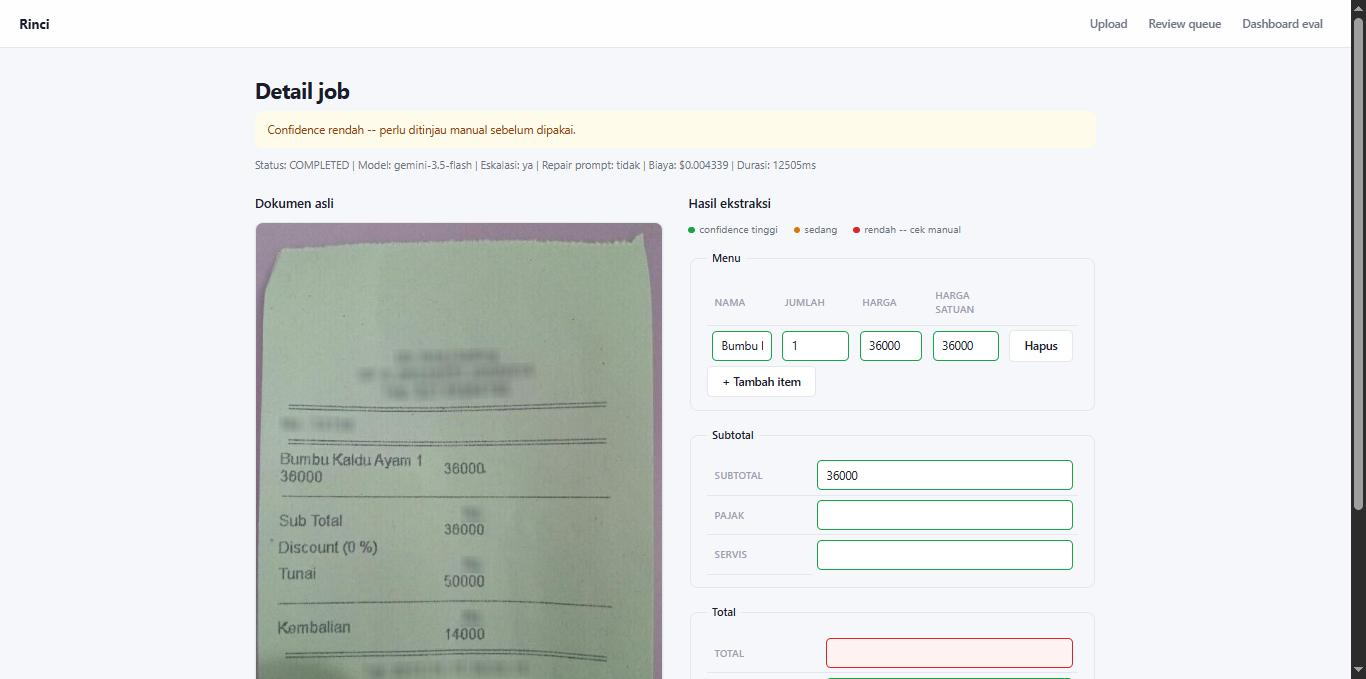
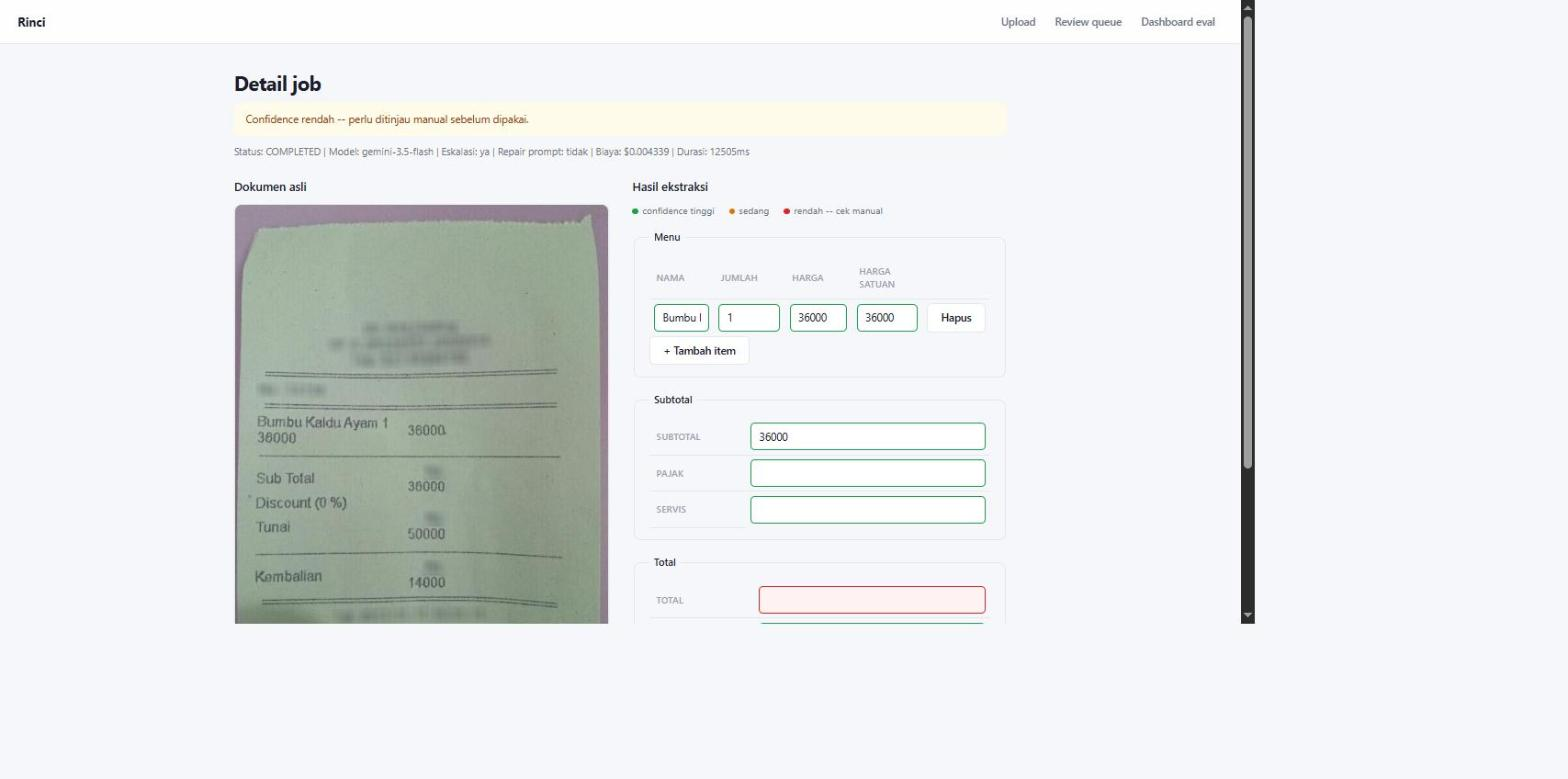
Readme Final

diff --git a/README.md b/README.md
@@ -10,6 +10,47 @@ tidak yakin.
 Nama **Rinci** dari kata "merinci" — memecah sesuatu jadi item-item
 detail.
 
+> Tidak ada demo publik permanen (butuh verifikasi kartu kredit di
+> setiap platform hosting yang dicoba, sengaja dihindari — lihat
+> `docs/adr/010-render-bukan-railway.md`). Jalan penuh lokal dalam
+> 5 menit lewat [Coba sendiri](#coba-sendiri) di bawah, atau lihat
+> semua halaman lewat screenshot di [Tampilan](#tampilan).
+
+## Tampilan
+
+Detail job (dua kolom, di atas) plus tiga halaman lain:
+
+<table>
+<tr>
+<td width="50%">
+
+**Landing** — hero 3D interaktif (ikut kursor), penjelasan alur kerja, angka eval nyata
+![Landing page](docs/screenshots/hero.jpg)
+
+</td>
+<td width="50%">
+
+**Review queue** — job dengan confidence rendah yang perlu ditinjau manual
+![Review queue](docs/screenshots/review-queue.jpg)
+
+</td>
+</tr>
+<tr>
+<td width="50%">
+
+**Dashboard eval** — histori tiap `npm run eval`, klik buat lihat akurasi per field
+![Dashboard eval](docs/screenshots/dashboard-eval.jpg)
+
+</td>
+<td width="50%">
+
+**API docs (Swagger)** — tiap endpoint terdokumentasi, bisa dicoba langsung dari browser
+![Swagger API docs](docs/screenshots/api-docs.jpg)
+
+</td>
+</tr>
+</table>
+
 ## Hasil eval (nyata, bukan estimasi)
 
 20 sampel dari split `test` CORD-v2, model `gemini-3.5-flash-lite`.
